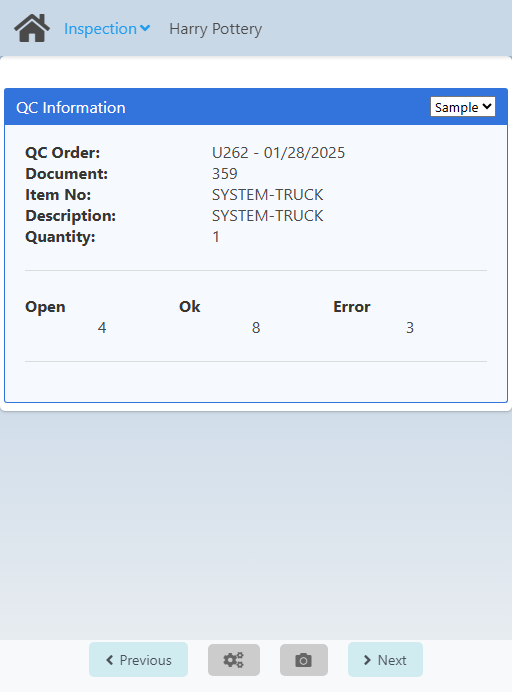
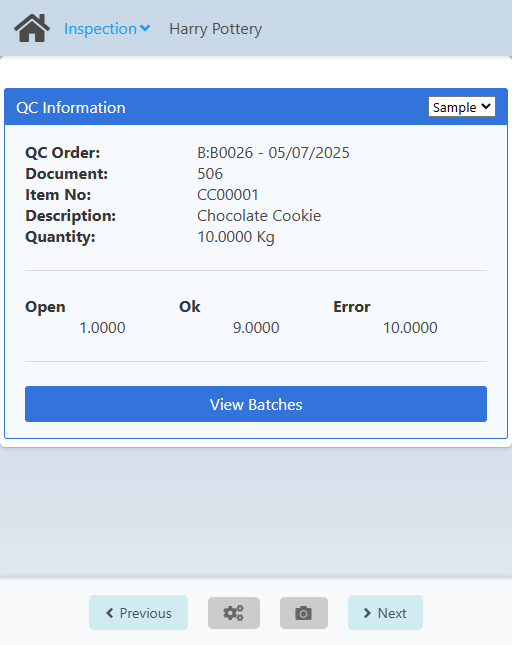
Update Inspection with the new changes

diff --git a/docusaurus.config.js b/docusaurus.config.js
@@ -4,49 +4,49 @@
 // There are various equivalent ways to declare your Docusaurus config.
 // See: https://docusaurus.io/docs/api/docusaurus-config
 
-import {themes as prismThemes} from 'prism-react-renderer';
+import { themes as prismThemes } from "prism-react-renderer";
 
 // This runs in Node.js - Don't use client-side code here (browser APIs, JSX...)
 
 /** @type {import('@docusaurus/types').Config} */
 const config = {
-  title: 'Light WMS',
-  tagline: 'Web tool over beas',
-  favicon: 'img/lwms_icon.ico',
+  title: "Light WMS",
+  tagline: "Web tool over beas",
+  favicon: "img/lwms_icon.ico",
 
   // Set the production url of your site here
-  url: 'https://github.com',
+  url: "https://github.com",
   // Set the /<baseUrl>/ pathname under which your site is served
   // For GitHub pages deployment, it is often '/<projectName>/'
-  baseUrl: '/lwms-docs/',
+  baseUrl: "/lwms-docs/",
 
   // GitHub pages deployment config.
   // If you aren't using GitHub pages, you don't need these.
-  organizationName: 'theonewhowritesthedocs', // Usually your GitHub org/user name.
-  projectName: 'lwms-docs', // Usually your repo name.
+  organizationName: "theonewhowritesthedocs", // Usually your GitHub org/user name.
+  projectName: "lwms-docs", // Usually your repo name.
   deploymentBranch: "gh-pages",
 
-  onBrokenLinks: 'throw',
-  onBrokenMarkdownLinks: 'warn',
+  onBrokenLinks: "throw",
+  onBrokenMarkdownLinks: "warn",
 
   // Even if you don't use internationalization, you can use this field to set
   // useful metadata like html lang. For example, if your site is Chinese, you
   // may want to replace "en" with "zh-Hans".
   i18n: {
-    defaultLocale: 'en',
-    locales: ['en'],
+    defaultLocale: "en",
+    locales: ["en"],
   },
   markdown: {
     mermaid: true,
   },
-  themes: ['@docusaurus/theme-mermaid'],
+  themes: ["@docusaurus/theme-mermaid"],
   presets: [
     [
-      'classic',
+      "classic",
       /** @type {import('@docusaurus/preset-classic').Options} */
       ({
         docs: {
-          sidebarPath: './sidebars.js',
+          sidebarPath: "./sidebars.js",
           // Please change this to your repo.
           // Remove this to remove the "edit this page" links.
           // editUrl:
@@ -55,7 +55,7 @@ const config = {
         blog: {
           showReadingTime: true,
           feedOptions: {
-            type: ['rss', 'atom'],
+            type: ["rss", "atom"],
             xslt: true,
           },
           // Please change this to your repo.
@@ -63,12 +63,12 @@ const config = {
           // editUrl:
           //   'https://github.com/facebook/docusaurus/tree/main/packages/create-docusaurus/templates/shared/',
           // Useful options to enforce blogging best practices
-          onInlineTags: 'warn',
-          onInlineAuthors: 'warn',
-          onUntruncatedBlogPosts: 'warn',
+          onInlineTags: "warn",
+          onInlineAuthors: "warn",
+          onUntruncatedBlogPosts: "warn",
         },
         theme: {
-          customCss: './src/css/custom.css',
+          customCss: "./src/css/custom.css",
         },
       }),
     ],
@@ -78,19 +78,19 @@ const config = {
     /** @type {import('@docusaurus/preset-classic').ThemeConfig} */
     ({
       // Replace with your project's social card
-      image: 'img/docusaurus-social-card.jpg',
+      image: "img/docusaurus-social-card.jpg",
       navbar: {
-        title: 'Light WMS',
+        title: "Light WMS",
         logo: {
-          alt: 'Light WMS Logo',
-          src: 'img/light_wms_icon.svg',
+          alt: "Light WMS Logo",
+          src: "img/light_wms_icon.svg",
         },
         items: [
           {
-            type: 'docSidebar',
-            sidebarId: 'docSidebar',
-            position: 'left',
-            label: 'Documentation',
+            type: "docSidebar",
+            sidebarId: "docSidebar",
+            position: "left",
+            label: "Documentation",
           },
           // {to: '/blog', label: 'Blog', position: 'left'},#ecf0f1
           // {
@@ -101,7 +101,7 @@ const config = {
         ],
       },
       footer: {
-        style: 'dark',
+        style: "dark",
         links: [
           // {
           //   title: 'Docs',
@@ -146,15 +146,15 @@ const config = {
         copyright: `Copyright © ${new Date().getFullYear()} Fonseca Advisers LLC.`,
       },
       mermaid: {
-        theme: {light: 'neutral', dark: 'dark'},
+        theme: { light: "neutral", dark: "dark" },
       },
       prism: {
         theme: prismThemes.github,
         darkTheme: prismThemes.dracula,
-        additionalLanguages: ['mermaid'],
+        additionalLanguages: ["mermaid"],
       },
     }),
-    // plugins: ['docusaurus-plugin-mermaid'],
+  // plugins: ['docusaurus-plugin-mermaid'],
 };
 
 export default config;

diff --git a/docs/core_functions/inspection.md b/docs/core_functions/inspection.md
@@ -8,32 +8,51 @@ import TabItem from '@theme/TabItem';
 
 # Inspection
 
-The Inspection web app allows you to log the results of quality checks on a production order by samples or tests.
+The Inspection web app allows you to log the results of quality checks on a production order by samples/tests and execute further actions.
 
 ## Flow Diagram
 
 ```mermaid
 stateDiagram-v2
-    state "QC Order" as qc_order
-    state "QC Flow" as qc_flow
-    state "Pick a sample" as sample
-    state "Pick a test" as test
-    state "Input results by test" as test_results
-    state "Input results by sample" as sample_results
-    state "Create Activity" as create_activity
+    state "Select QC Order" as qc_order
+    state "QC Order summary" as qcsummary1
+    state "QC Order summary" as qcsummary2
+    state "QC Order summary" as qcsummary3
+    state "Block/release batches" as brbatches
+    state "Select a sample" as sample
+    state "Select a test" as test
+    state "Input results per test" as test_results
+    state "Input results per sample" as sample_results
+    state "Create activity" as create_activity1
+    state "Create activity" as create_activity2
+    state "Attach pictures" as pics1
+    state "Attach pictures" as pics2
 
-    state select_qc_flow <<choice>>
+    state select_qcsummary <<choice>>
 
     [*] --> qc_order
-    qc_order --> qc_flow
-    qc_flow --> select_qc_flow
-    select_qc_flow --> sample: Sample
-    select_qc_flow --> test: Test
+    qc_order --> qcsummary1
+    qcsummary1 --> brbatches: Managed by batch
+    brbatches --> qcsummary1
+    qcsummary1 --> select_qcsummary: QC flow
+    select_qcsummary --> sample: Sample
+    select_qcsummary --> test: Test
     sample --> test_results
+    test_results --> sample
+    test_results --> qcsummary2: No more open
     test --> sample_results
-    test_results --> create_activity
-    sample_results --> create_activity
-    create_activity --> [*]
+    sample_results --> test
+    sample_results --> qcsummary3: No more open
+    test_results --> pics1
+    pics1 --> test_results
+    sample_results --> pics2
+    pics2 --> sample_results
+    qcsummary2 --> create_activity1
+    qcsummary3 --> create_activity2
+    create_activity1 --> [*]
+    create_activity2 --> [*]
+    qcsummary2 --> [*]
+    qcsummary3 --> [*]
 ```
 
 ## Screens
@@ -68,33 +87,56 @@ On this screen you can see a summary of the **QC Order** you selected, including
 
 ![QC order summary](./img-inspection/qc-order-summary-screen.png)
 
-<!-- :::warning[documentation]
-Explain the values shown in the summary.
-::: -->
+<CustomDetails summary="Field Reference">
+| Field | Description |
+| ---| --- |
+| QC Order | QC Order number and the creation date. |
+| Document | Document ID. |
+| Item No | Item number. |
+| Description | Item description. |
+| Quantity | Quantity already posted or to be checked. |
+| Open | Number of samples not yet released. |
+| Ok | Number of released samples. |
+| Error | Number of samples marked as faulty. |
+</CustomDetails>
 
-You can choose one of the available workflows for the QC: **Sample** and **Test**.
+Click the **View Batches** button to open the **Batches Status Modal**.
+
+<CustomDetails summary="Batches Status Modal">
+
+On this modal you can change the status of the batches associated with the QC order. You can **block** or **release** batches.
+
+![Batches status modal](./img-inspection/batch_status_modal.png)
+
+You can change the status by clicking on the **Status** column for any of the batches. The update is done at that moment.
+
+If you want to close the modal, click the <IIcon icon="zondicons:close-solid" width="17" height="17"/> or **Close** buttons.
+
+</CustomDetails>
+
+:::info
+The **View Batches** button will only be shown when the item is managed by batches.
+:::
+
+The next step is selecting the way in which you want to input the results: **Sample** and **Test**.
 
 ![QC Order workflow dropdown menu](./img-inspection/qc-order-workflow-dropdown-menu.png)
 
-Once you select a workflow, click **Next** to go to that workflow screen: [Sample](./inspection.md#sf-samples-summary) or [Test](./inspection.md#tf-tests-summary).
+Once you select one, click **Next** to go to the respective screen: [Sample: Samples Summary](./inspection.md#sample-samples-summary) or [Test: Tests Summary](./inspection.md#test-tests-summary).
 
-### Sample Flow (SF)
-
-#### SF: Samples Summary
+### Sample: Samples Summary
 
 On this screen you can see a summary of the **samples** associated with the selected QC order.
 
 ![Samples summary screen](./img-inspection/sflow-samples-summary-screen.png)
 
 <CustomDetails summary="Table Reference">
-
-| Column                                                      | Description                                                       |
-| ------------------------------------------------------------| ----------------------------------------------------------------- |
-| <IIcon icon="pepicons-pop:dots-x" width="17" height="17"/>  | Action button for opening the Sample: Extended Information modal. |
-| Sample                                                      | The ID of the sample.                                             |
-| Untested                                                    | Number of units left to test.                                     |
-| Last Change                                                 | The date for when the actual sample was last modified.            |
-
+| Column | Description |
+| --- | --- |
+| <IIcon icon="pepicons-pop:dots-x" width="17" height="17"/> | Action button for opening the **Sample: Extended Information** modal. |
+| Sample | Sample number. |
+| Untested | Number of unchecked measurement positions.|
+| Last Change | When the sample was last modified. |
 </CustomDetails>
 
 You can use the search box on the top of the screen to filter samples by the **Sample** and **Untested** values.
@@ -115,19 +157,11 @@ You can give a sample up to two release reasons using the **Release 1** and **Re
 If you set **Release 1** to either **Released** or **Locked**, the **sample** will go away as completed.
 :::
 
-:::danger[development]
-In **Release 1**, the options **Manually Locked** and **Manually Reopen** seem to not be working.
-:::
-
 **Release 2** can only be checked when **Release 1** is set to **Released.**
 
 Use the **Blockage Reason** field for giving the sample a reason for a blockage by choosing one of the options. For giving it extra comments using the <IIcon icon="ion:information-sharp" width="17" height="17"/> field below it.
 
 You can also give the sample a **Valuation** from the list of options and extra information.
-
-:::danger[development]
-The **Valuation** field is yet to be configured.
-:::
 
 If you want to close the modal without making any changes, click the <IIcon icon="zondicons:close-solid" width="17" height="17"/> or **Cancel** buttons.
 
@@ -135,9 +169,9 @@ Click **Save** to save the changes and close the modal.
 
 </CustomDetails>
 
-Click on any other columns of a sample to go to the [Tests](./inspection.md#sf-tests-summary) screen for it.
+Click on any other columns of a sample to go to the [Sample: Tests Summary](./inspection.md#sample-tests-summary) screen for it.
 
-#### SF: Tests Summary
+### Sample: Tests Summary
 
 On this screen you can see a summary of the **tests** assigned to the selected sample.
 
@@ -210,9 +244,7 @@ If you want to close any of the modals without saving anything, click the <IIcon
 
 Once you are done with all the samples in the QC Order, click the <IIcon icon="fa:gears" width="17" height="17"/> button at the bottom to go to the [Create Activity](./inspection.md#create-activity) screen.
 
-### Test Flow (TF)
-
-#### TF: Tests Summary
+### Test: Tests Summary
 
 On this screen you can see a summary of the **tests** associated with the selected QC order.
 
@@ -248,7 +280,7 @@ Click on any other columns of a test to go to the [Samples](./inspection.md#tf-s
 
 Once you are done with all the tests for all the samples in the QC Order, click the <IIcon icon="fa:gears" width="17" height="17"/> button at the bottom to go to the [Create Activity](./inspection.md#create-activity) screen.
 
-#### TF: Samples Summary
+### Test: Samples Summary
 
 On this screen you can see a summary of the **samples** for which the selected test applies.
 
